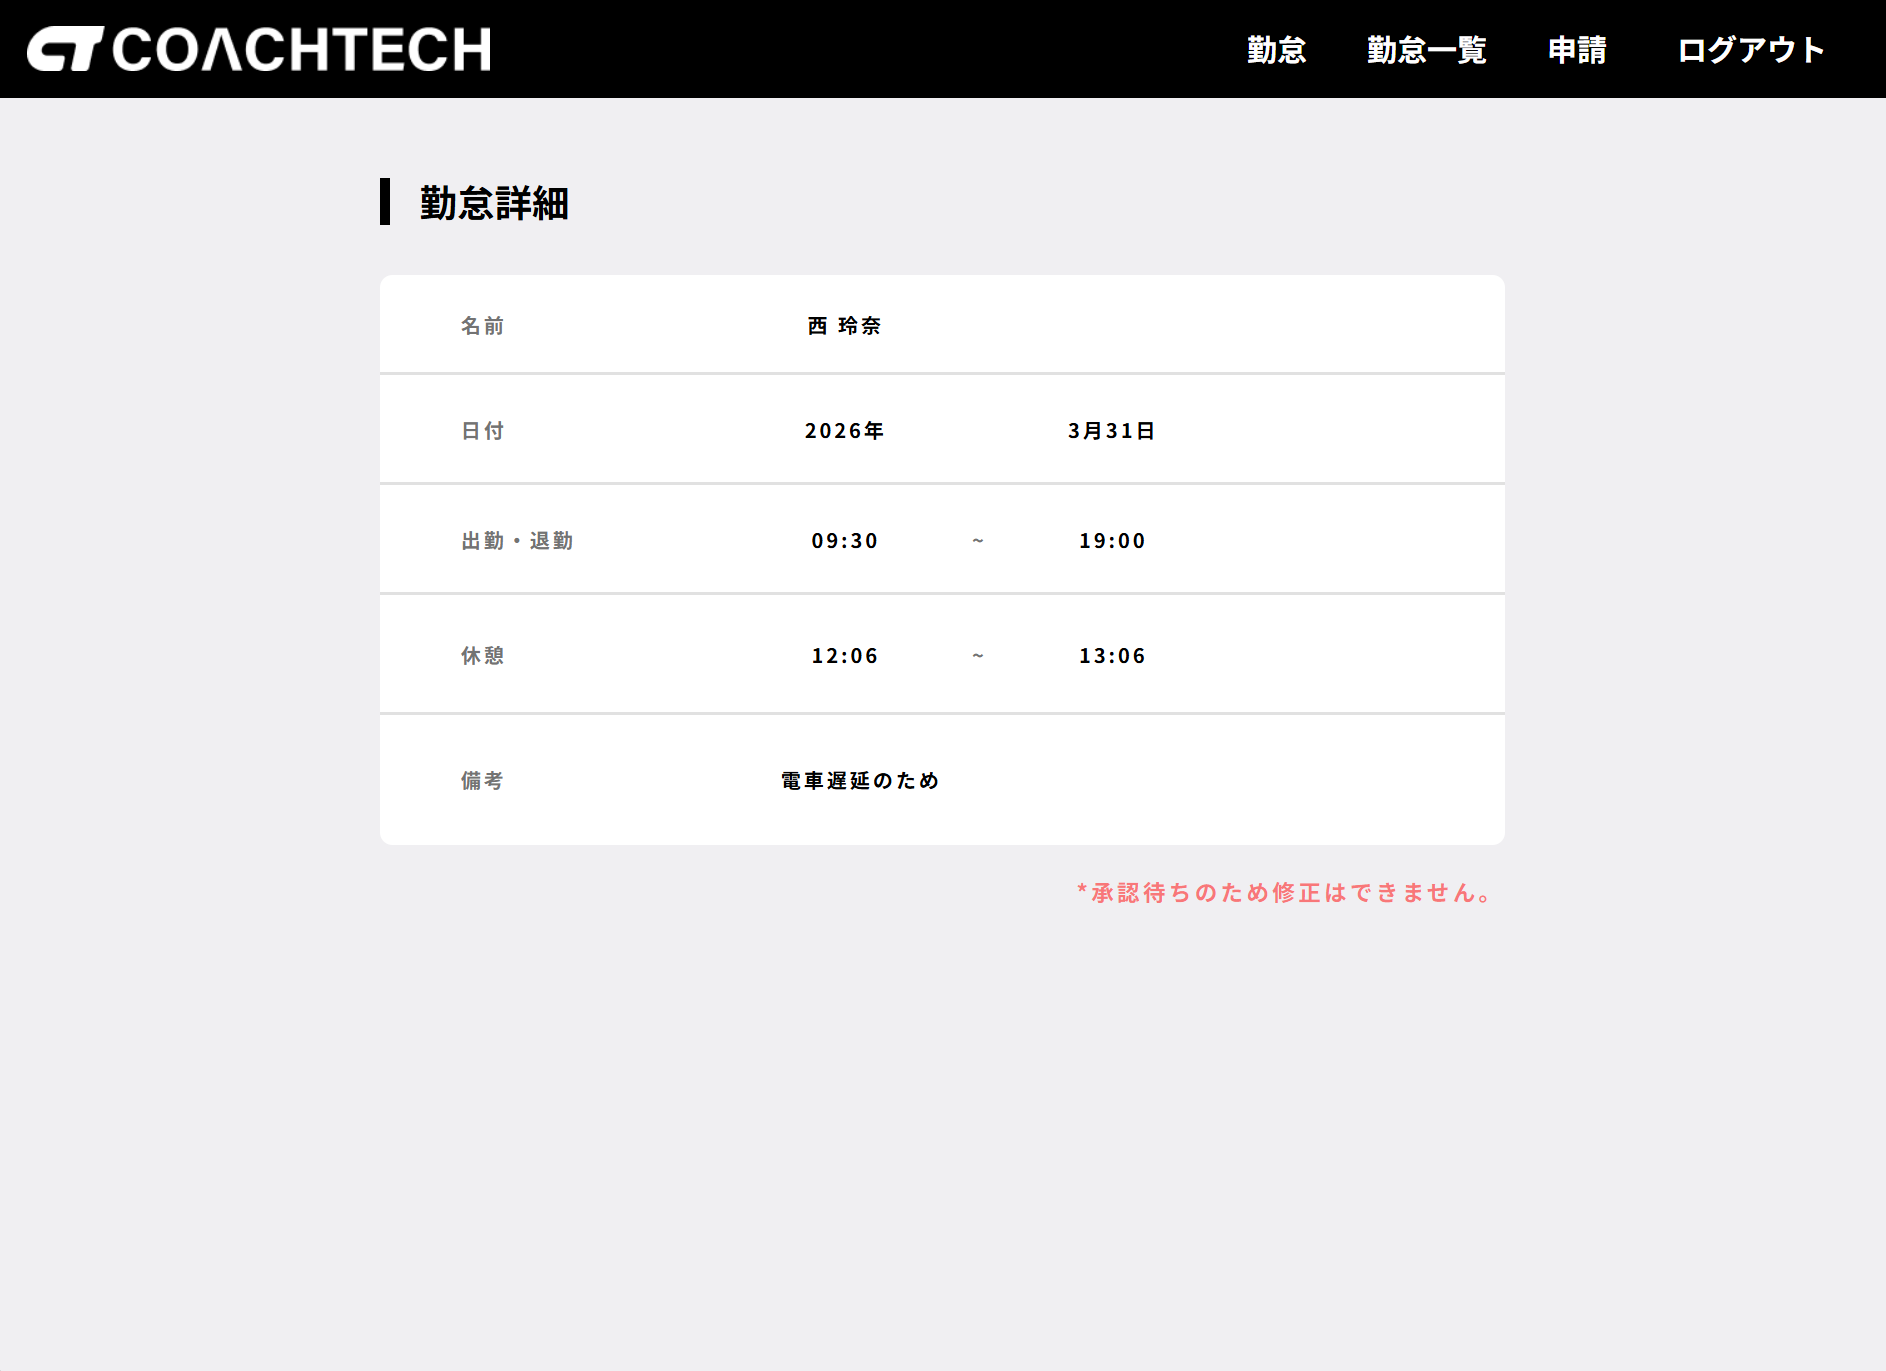
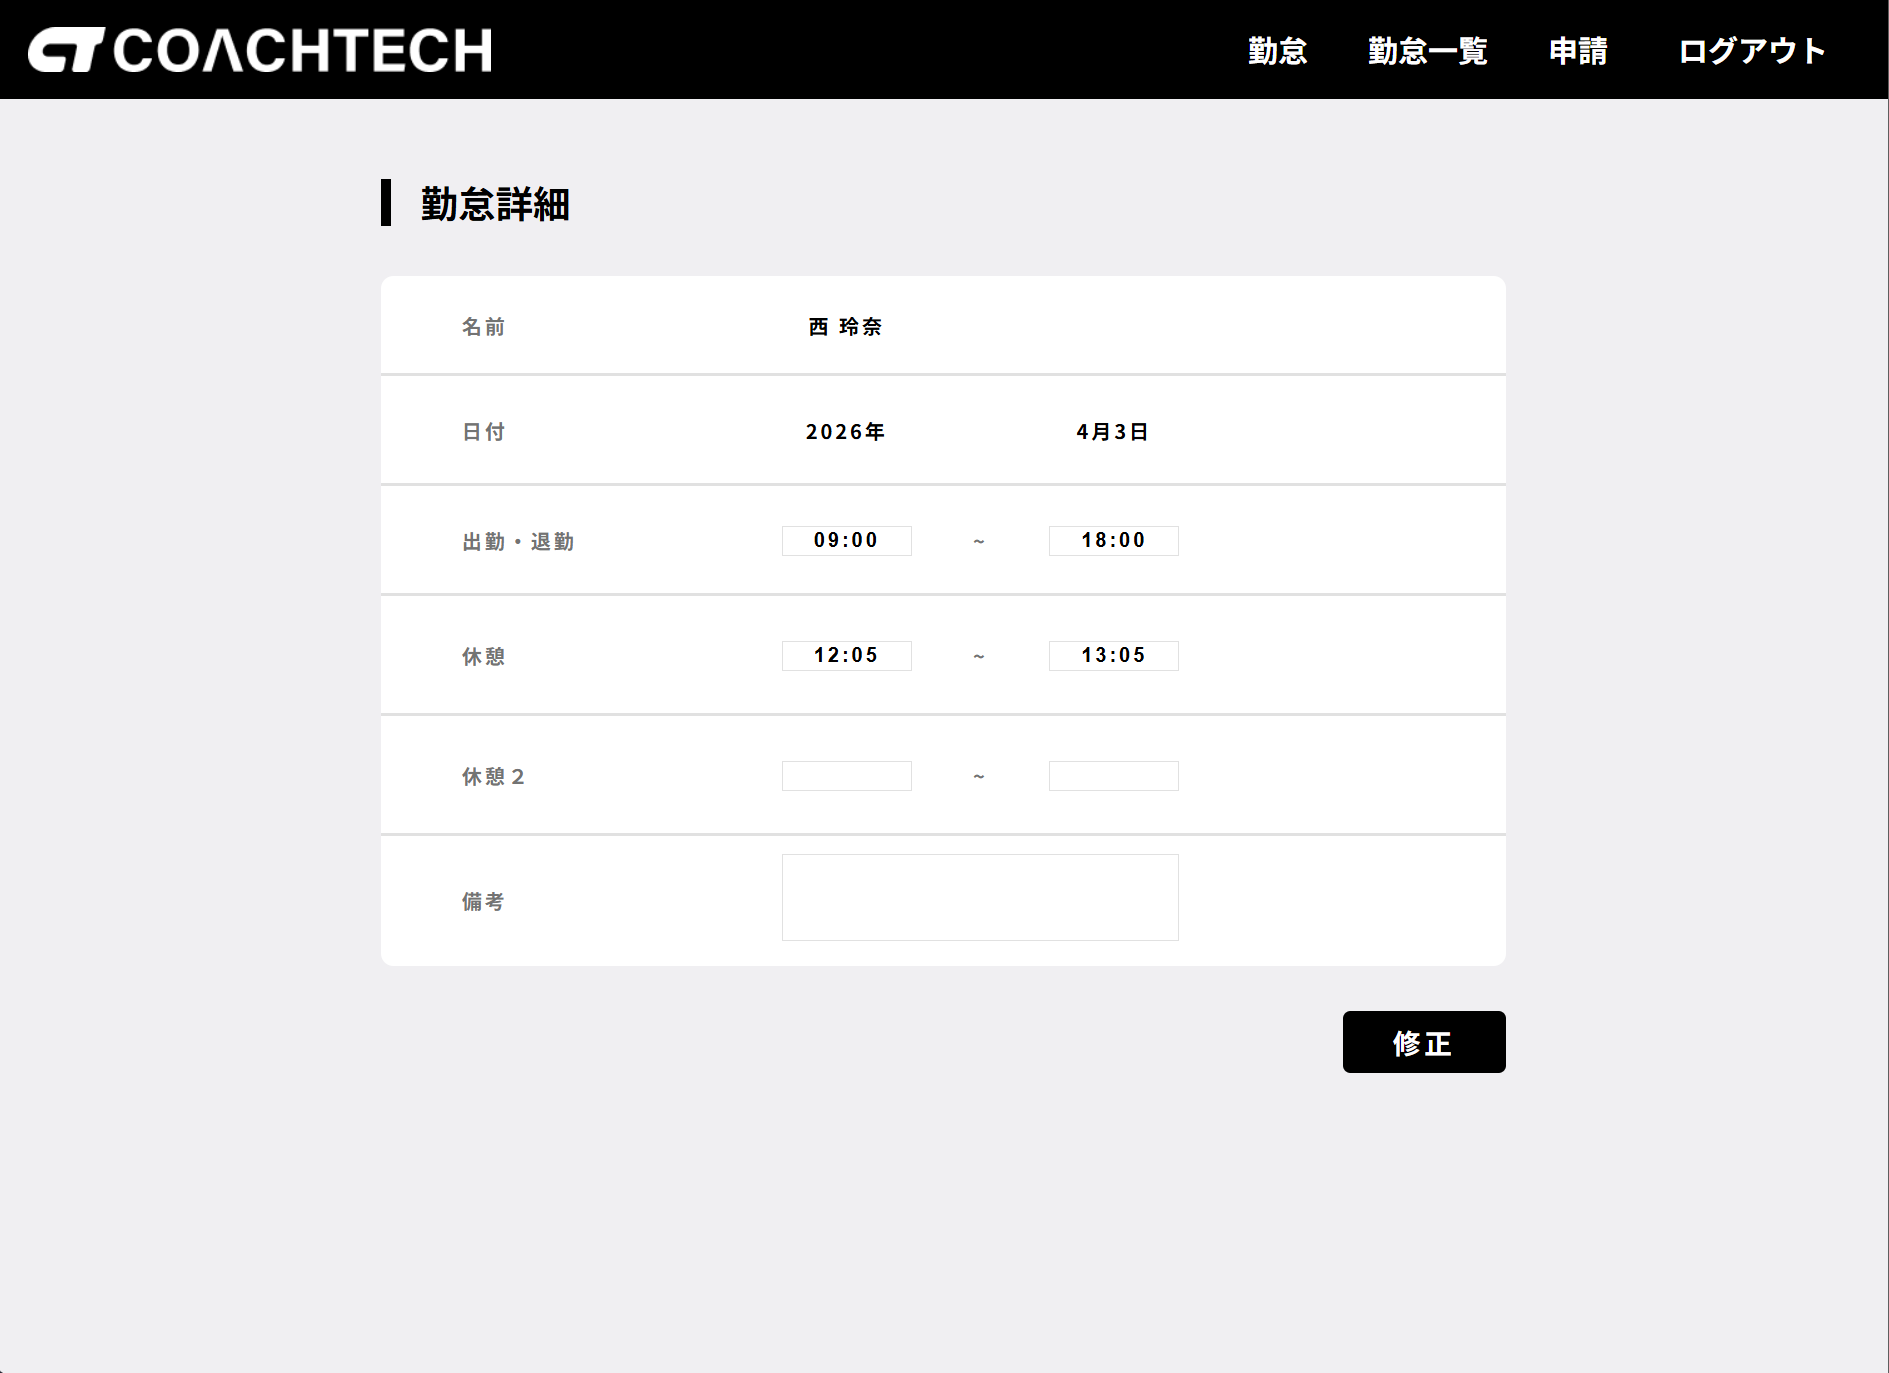
模擬案件（勤怠管理アプリ）の実装一式を追加

diff --git a/src/app/Support/Url/CsvExportUrl.php b/src/app/Support/Url/CsvExportUrl.php
@@ -4,10 +4,10 @@ namespace App\Support\Url;
 
 class CsvExportUrl
 {
-
     /* ================================
         Export CSV URLの生成
     ================================= */
+
     public static function make($userId, $current)
     {
         return route('admin.attendance.staff.csv', [

diff --git a/README.md b/README.md
@@ -33,7 +33,7 @@
 
 ![勤怠詳細](docs/images/02_attendance_detail_screen.png)
 
-- 1 日分の勤怠詳細を確認できる画面です。休憩ログや備考などの整形は Presenter によって行われ、修正申請フォームから勤怠の差分を申請できます。
+- 1 日分の勤怠詳細を確認できる画面で、未申請中であれば修正ボタンにより勤怠修正の申請ができます。休憩ログや備考などの整形は Presenter によって行われています。
 
 ### ③ 管理者：日次勤怠一覧
 
@@ -290,7 +290,7 @@ exit
 ```
 
 ```bash
-code .        #.envファイルを必要に応じて環境変数変更）
+code .    #.envファイルを必要に応じて環境変数変更）
 ```
 
 ### ◆ マイグレーション & シーディング
@@ -481,8 +481,6 @@ exit;
 ```
 
 ```bash
-
-exit;
 
 docker compose exec php bash
 
